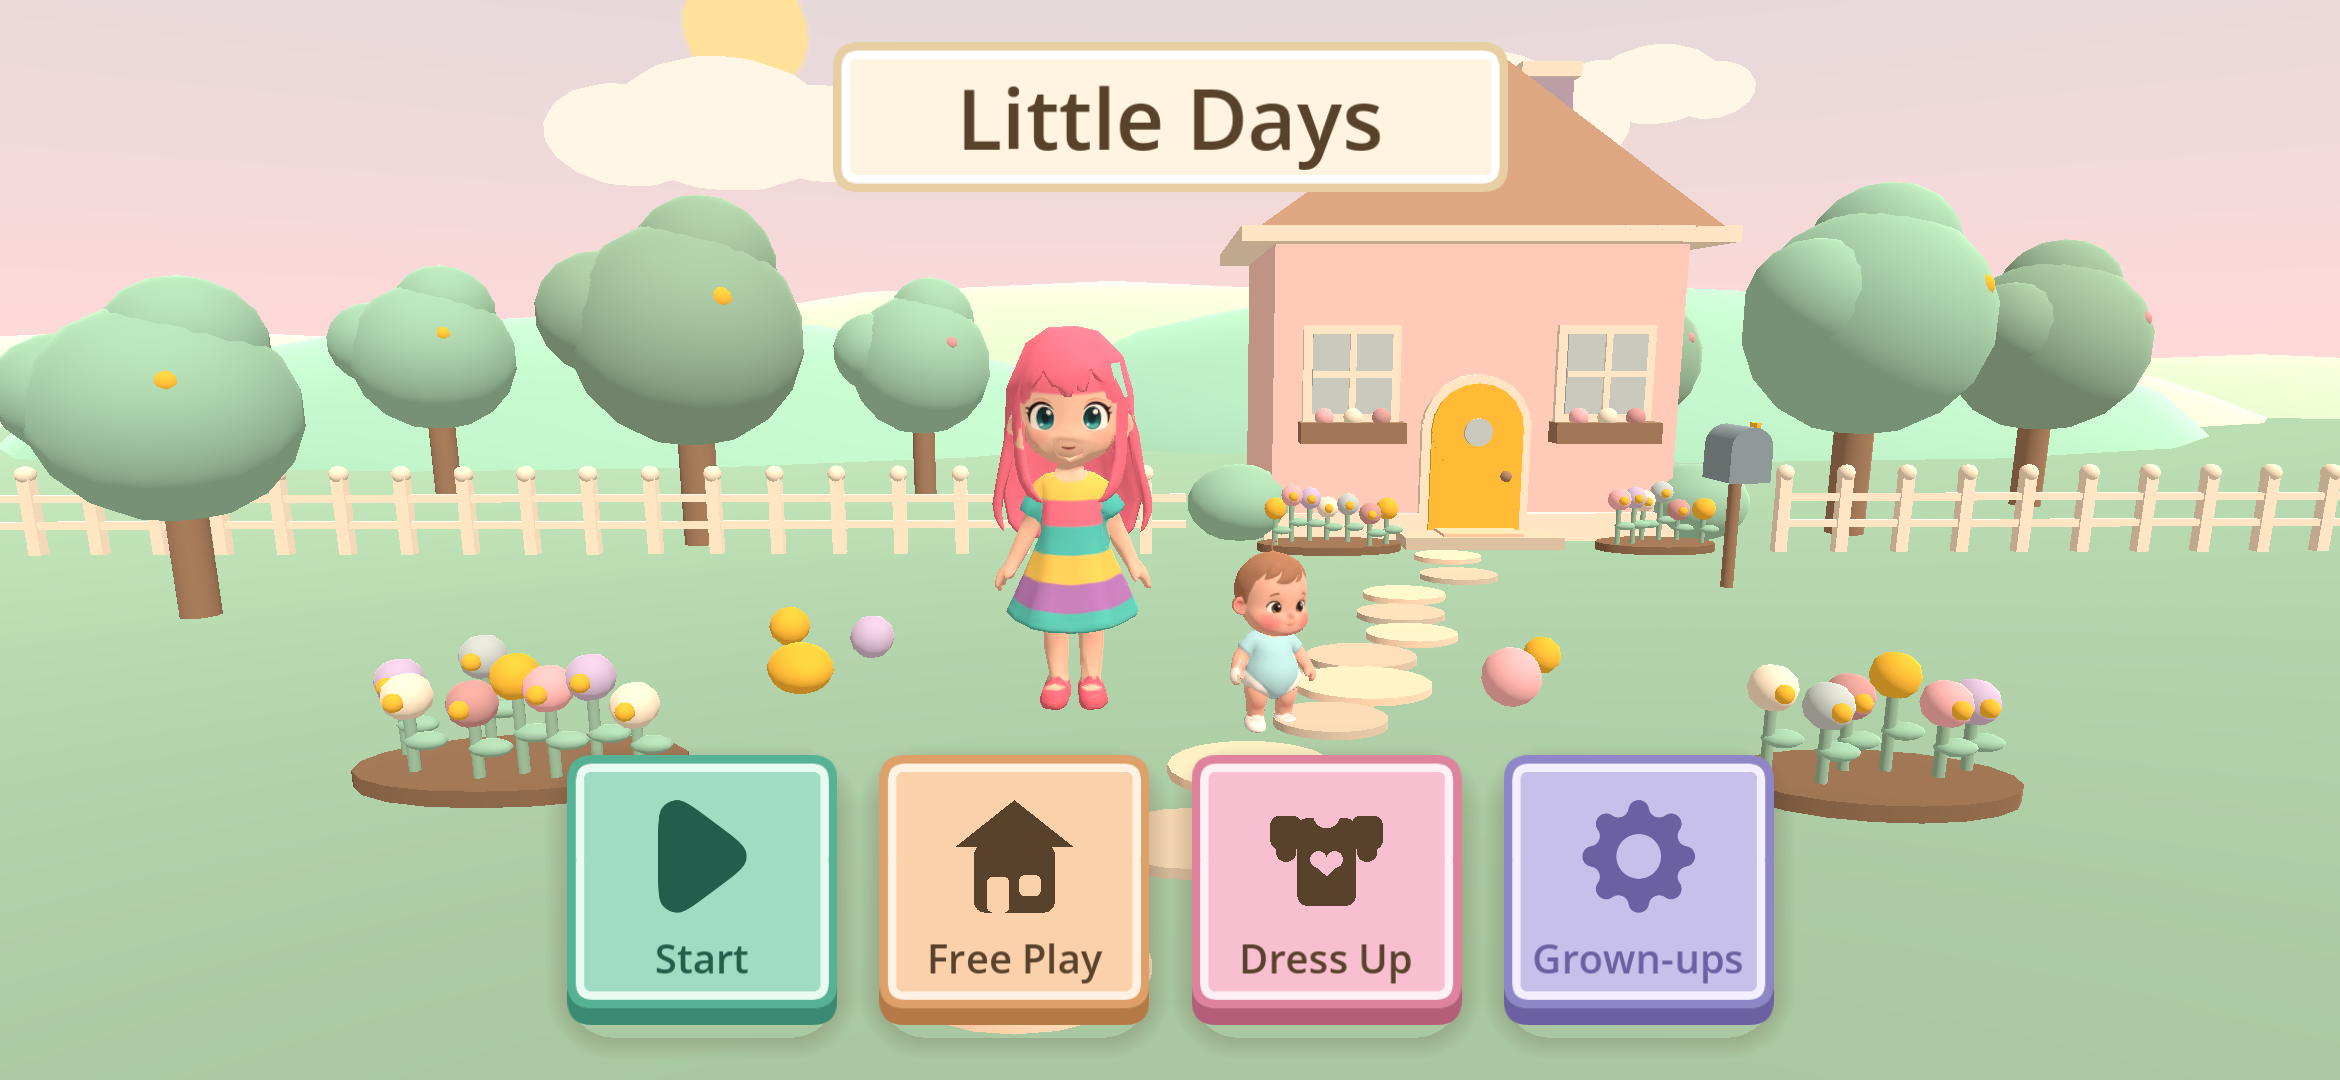
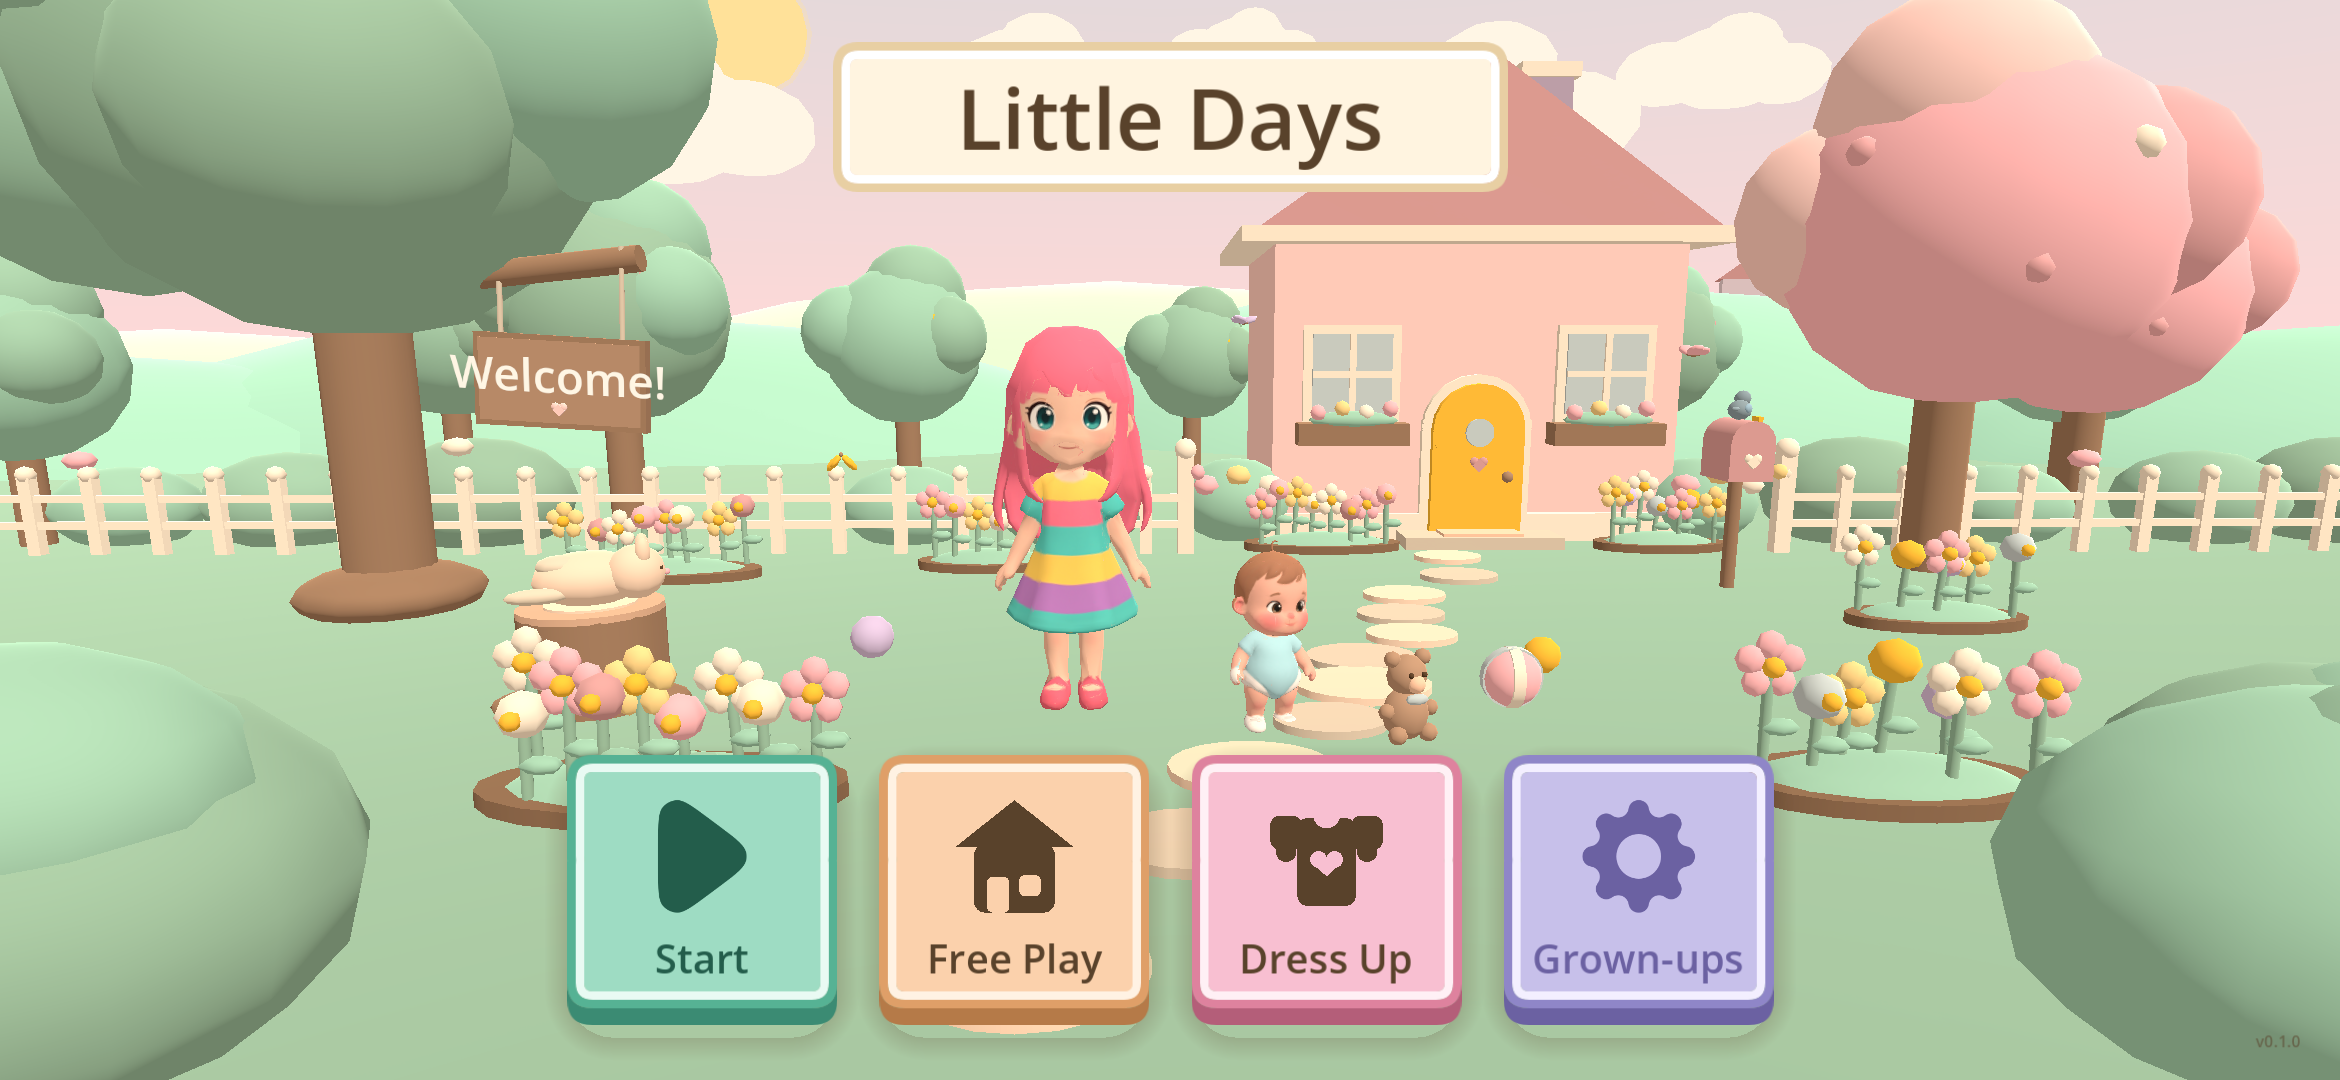
menu: live departure shot mode, both device shots, socket refresh only out of tree, pass note

diff --git a/docs/MENU_HOME_PASS.md b/docs/MENU_HOME_PASS.md
@@ -1,0 +1,54 @@
+# Menu home pass -- 2026-09-20 (Agent B, branch `wt2/home`)
+
+What changed on the title screen, and where the proof is.
+
+## Garden (`game/scripts/menu/menu_garden.gd`)
+Layered trees in three leaf tints, a hero tree front-left with a hanging
+"Welcome!" sign, two blossom trees, a hedge behind the picket fence, seven
+flowerbeds of round-petalled flowers (pink / yellow / white) plus buds, a stump
+with a sleeping cat, three butterflies, a bluebird on a warm pink mailbox with a
+cream heart, Bunny's teddy and a striped ball, far cottages on the hills, six
+clouds, corner bushes, a rose-pink roof, a heart on the door, flower boxes
+under the windows. 53,966 triangles (cap 60k in `test_menu_wow.gd`), one
+`DirectionalLight3D`, shadows off, no post-processing.
+
+## Ambient motion (`tick(delta)` in the garden)
+Canopies, flower heads, bushes and the sign sway 2-3 degrees on a slow sine
+with per-instance phase; clouds drift and wrap; butterflies fly a figure-eight
+and flap; the cat breathes. Bunny plays his `idle` clip; Aliz plays `idle`
+through `play_action()` only when `can_play_action("idle")` says the clip
+exists (Agent E is authoring it).
+
+## The walk home (`game/scripts/menu/menu_departure.gd`)
+Start / Free Play: buttons fade, Aliz turns and steps to Bunny (0.35 s), lifts
+him into the real carry -- `carryFront` socket + carry arm pose + Bunny's
+`carried` clip (0.45 s) -- both head up the path while the camera follows, the
+door swings open at 1.6 s, a cream cover comes up from 2.1 s, and at 2.5 s
+`main.gd` runs the same routing it always did (Start/Continue, first run,
+fallbacks untouched). A tap anywhere skips straight to the hand-off. The cover
+lives under the tree root so it survives the swap and reveals the new scene.
+Hooks for `scripts/branding/scene_transition.gd` (cover/reveal) and
+`scripts/branding/logo_title.gd` (replaces the text title panel) are behind
+`ResourceLoader.exists()` guards.
+
+## Dress Up (`game/scenes/dress_up/dress_up.tscn`, `scripts/menu/dress_up_screen.gd`)
+Real Aliz on a pastel stage, four big swatches (pink, mint, lavender, sunny)
+that recolour a hair bow, a tutu frill and shoe bows pinned to her sockets (her
+mesh is one atlas surface, so the dress itself cannot be tinted alone), "More
+outfits soon!", big Back. Back returns to `main.tscn`. The chosen swatch is
+remembered in `settings.dressUpTint` only when a swatch is pressed.
+
+## Version
+`v` + `GameVersion.BUILD`, bottom-right, 15 px, ink at 55%. The only place.
+
+## Evidence
+- `docs/shots/menu_wow_ipad.png` (1334x750), `docs/shots/menu_wow_iphone.png` (2340x1080)
+- `docs/shots/menu_depart_walk.png` (0.30 s), `menu_depart_carry.png` (0.68 s),
+  `menu_depart_door.png` (2.05 s) -- hand-stepped; `menu_depart_live.png`
+  (2.25 s, driven by `_process`)
+- `docs/shots/dress_up_mint.png` -- mint swatch applied
+- Headless: `test_menu_wow` (garden, budget, framing, buttons route, ambient
+  motion, departure completes inside 2.5 s and skips on a tap, version label,
+  Dress Up round trip). Suite: 128 cases, 0 failures.
+
+Regenerate: `Godot --path game --script res://tests/shots_menu.gd -- <name> <WxH> [pressed|depart <s>|departlive <s>|dressup <swatch>]`.
